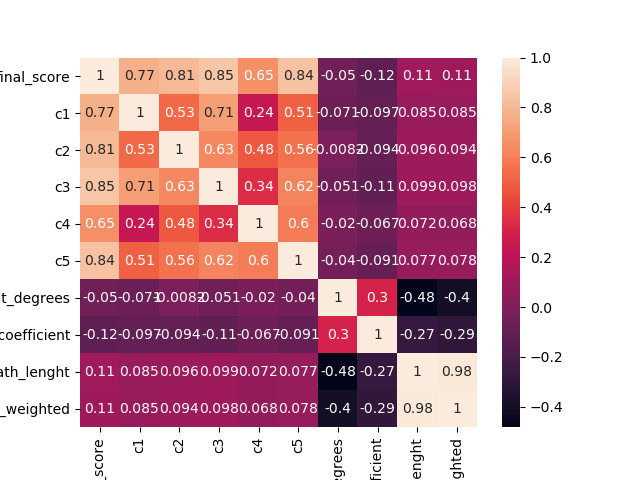
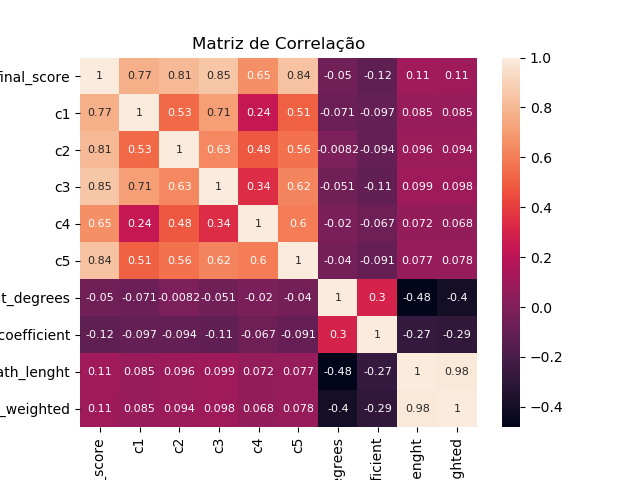
subplot

diff --git a/vizualization.py b/vizualization.py
@@ -1,6 +1,7 @@
 import pandas as pd
 import seaborn as sns
 import matplotlib.pyplot as plt
+import numpy as np
 
 df = pd.read_csv('data/network_data.csv')
 
@@ -8,14 +9,24 @@ scores = list(df.columns[:6])
 properties = list(df.columns[6:])
 
 corr = df.corr()
-sns.heatmap(corr, annot=True)
+sns.heatmap(corr, annot=True, annot_kws={"fontsize":8})
+plt.title("Matriz de Correlação")
 plt.savefig("vizualization/correlation.png")
 
 for score in scores:
-    for prop in properties:
+
+    fig, ((ax1, ax2), (ax3, ax4)) = plt.subplots(2, 2, figsize=(18, 10))
+    axs = [ax1, ax2, ax3, ax4]
+
+    for idx, prop in enumerate(properties):
+
+        sns.scatterplot(ax=axs[idx], data=df, x=df[prop], y=df[score], hue=df[score], palette='coolwarm_r', legend = False)
+        axs[idx].set(xlabel=prop, ylabel=score)
+        axs[idx].set_title(f'{score} / {prop}')    
+
         plt.rcParams.update({'figure.max_open_warning': 0})
-        fig = plt.figure(figsize=(6, 4))
+        plt.title(f"{score}")
         if score not in 'final_score':
             plt.yticks(np.arange(0, 201, 50))
-        sns.scatterplot(data=df, x=df[prop], y=df[score], hue=df[score], palette='coolwarm_r', legend = False)
-        fig.savefig(f"vizualization/{score}:{prop}.png")
+
+        fig.savefig(f"vizualization/{score}.png")
